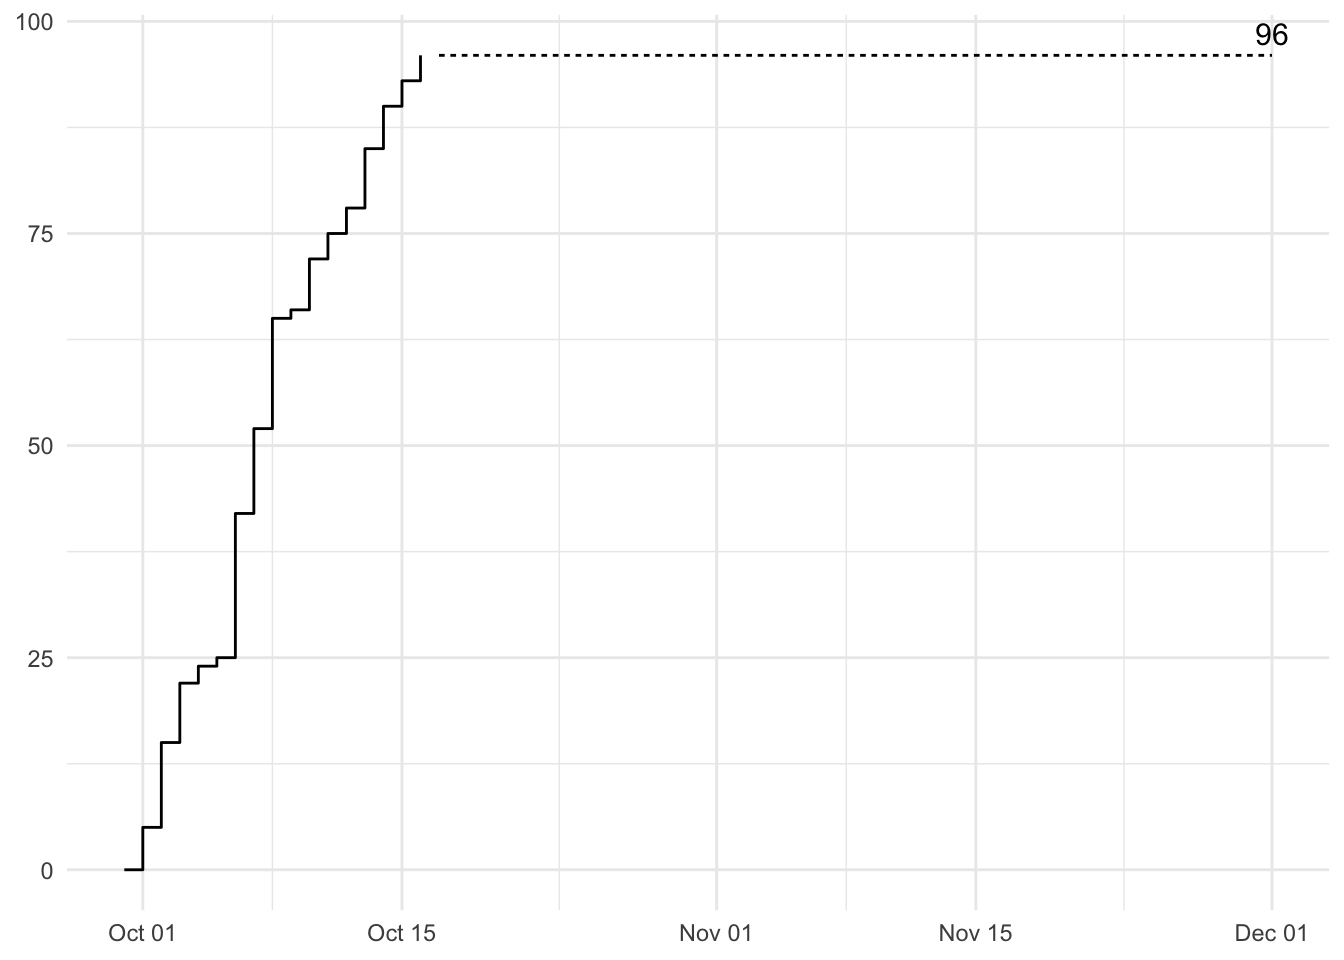
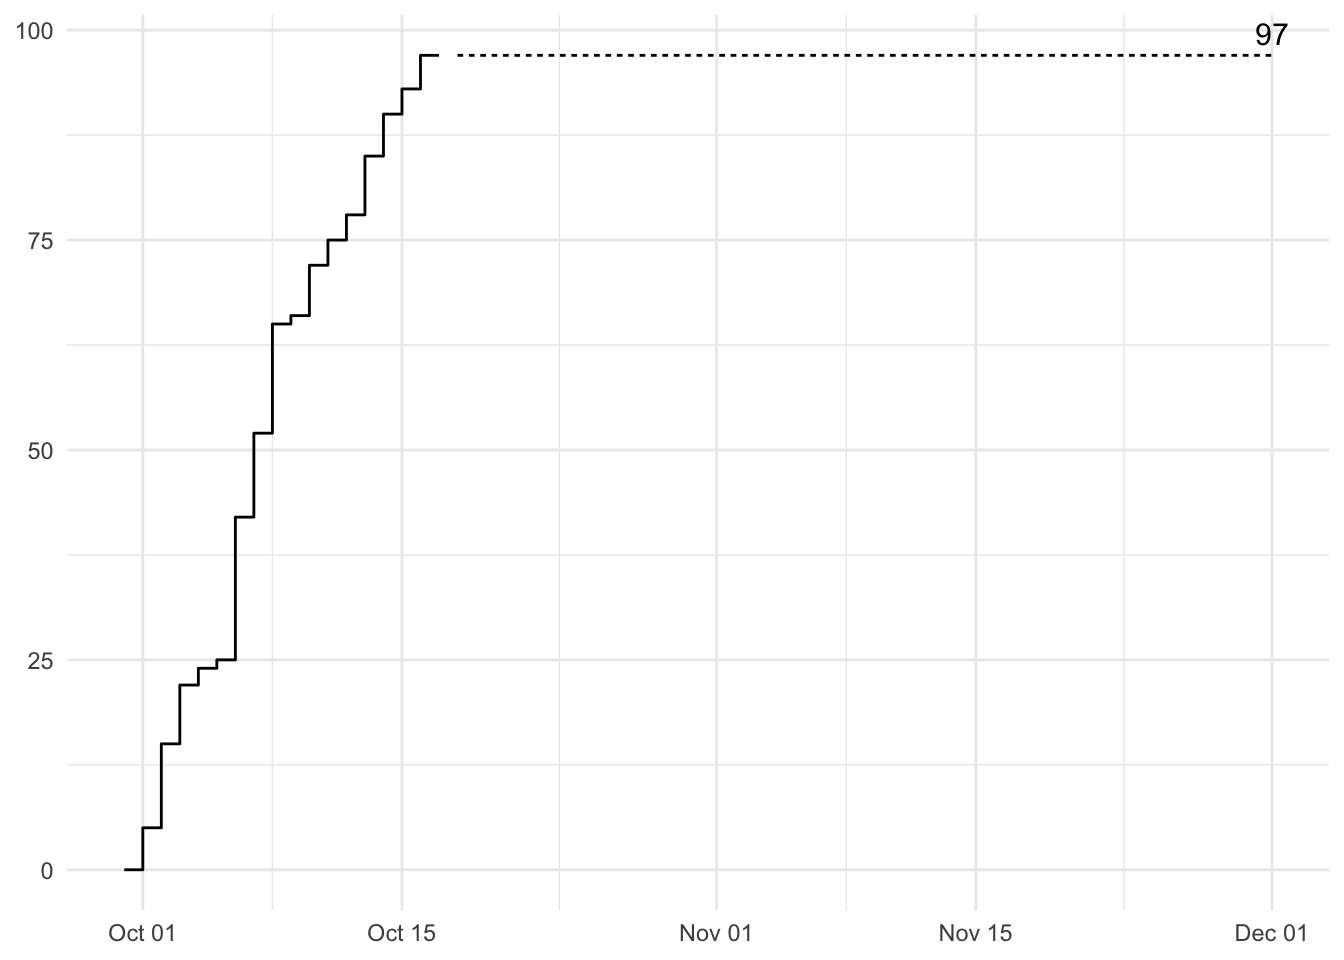
new team

diff --git a/_site/teams.html b/_site/teams.html
@@ -107,7 +107,7 @@ pre > code.sourceCode > span > a:first-child::before { text-decoration: underlin
 <script type="module" src="site_libs/quarto-ojs/quarto-ojs-runtime.js"></script>
 <link href="site_libs/quarto-ojs/quarto-ojs.css" rel="stylesheet">
 <script type="ojs-define">
-{"contents":[{"name":"teams_in_time","value":{"registration_date":["2025-09-30","2025-10-01","2025-10-02","2025-10-03","2025-10-04","2025-10-05","2025-10-06","2025-10-07","2025-10-08","2025-10-09","2025-10-10","2025-10-11","2025-10-12","2025-10-13","2025-10-14","2025-10-15","2025-10-16","2025-10-17","2025-10-18","2025-10-19","2025-10-20","2025-10-21","2025-10-22","2025-10-23","2025-10-24","2025-10-25","2025-10-26","2025-10-27","2025-10-28","2025-10-29","2025-10-30","2025-10-31","2025-11-01","2025-11-02","2025-11-03","2025-11-04","2025-11-05","2025-11-06","2025-11-07","2025-11-08","2025-11-09","2025-11-10","2025-11-11","2025-11-12","2025-11-13","2025-11-14","2025-11-15","2025-11-16","2025-11-17","2025-11-18","2025-11-19","2025-11-20","2025-11-21","2025-11-22","2025-11-23","2025-11-24","2025-11-25","2025-11-26","2025-11-27","2025-11-28","2025-11-29","2025-11-30","2025-12-01"],"n":[0,5,10,7,2,1,17,10,13,1,6,3,3,7,5,3,3,0,0,0,0,0,0,0,0,0,0,0,0,0,0,0,0,0,0,0,0,0,0,0,0,0,0,0,0,0,0,0,0,0,0,0,0,0,0,0,0,0,0,0,0,0,0],"future":[false,false,false,false,false,false,false,false,false,false,false,false,false,false,false,false,false,true,true,true,true,true,true,true,true,true,true,true,true,true,true,true,true,true,true,true,true,true,true,true,true,true,true,true,true,true,true,true,true,true,true,true,true,true,true,true,true,true,true,true,true,true,true]}}]}
+{"contents":[{"name":"teams_in_time","value":{"registration_date":["2025-09-30","2025-10-01","2025-10-02","2025-10-03","2025-10-04","2025-10-05","2025-10-06","2025-10-07","2025-10-08","2025-10-09","2025-10-10","2025-10-11","2025-10-12","2025-10-13","2025-10-14","2025-10-15","2025-10-16","2025-10-17","2025-10-18","2025-10-19","2025-10-20","2025-10-21","2025-10-22","2025-10-23","2025-10-24","2025-10-25","2025-10-26","2025-10-27","2025-10-28","2025-10-29","2025-10-30","2025-10-31","2025-11-01","2025-11-02","2025-11-03","2025-11-04","2025-11-05","2025-11-06","2025-11-07","2025-11-08","2025-11-09","2025-11-10","2025-11-11","2025-11-12","2025-11-13","2025-11-14","2025-11-15","2025-11-16","2025-11-17","2025-11-18","2025-11-19","2025-11-20","2025-11-21","2025-11-22","2025-11-23","2025-11-24","2025-11-25","2025-11-26","2025-11-27","2025-11-28","2025-11-29","2025-11-30","2025-12-01"],"n":[0,5,10,7,2,1,17,10,13,1,6,3,3,7,5,3,4,0,0,0,0,0,0,0,0,0,0,0,0,0,0,0,0,0,0,0,0,0,0,0,0,0,0,0,0,0,0,0,0,0,0,0,0,0,0,0,0,0,0,0,0,0,0],"future":[false,false,false,false,false,false,false,false,false,false,false,false,false,false,false,false,false,false,true,true,true,true,true,true,true,true,true,true,true,true,true,true,true,true,true,true,true,true,true,true,true,true,true,true,true,true,true,true,true,true,true,true,true,true,true,true,true,true,true,true,true,true,true]}}]}
 </script>
 
 
@@ -529,6 +529,7 @@ pre > code.sourceCode > span > a:first-child::before { text-decoration: underlin
   <li><a href="#strong-helicopter" id="toc-strong-helicopter" class="nav-link" data-scroll-target="#strong-helicopter">strong-helicopter</a></li>
   <li><a href="#terrific-kiwi" id="toc-terrific-kiwi" class="nav-link" data-scroll-target="#terrific-kiwi">terrific-kiwi</a></li>
   <li><a href="#tiny-marshmallow" id="toc-tiny-marshmallow" class="nav-link" data-scroll-target="#tiny-marshmallow">tiny-marshmallow</a></li>
+  <li><a href="#tiny-village" id="toc-tiny-village" class="nav-link" data-scroll-target="#tiny-village">tiny-village</a></li>
   <li><a href="#trustworthy-hedgehog" id="toc-trustworthy-hedgehog" class="nav-link" data-scroll-target="#trustworthy-hedgehog">trustworthy-hedgehog</a></li>
   <li><a href="#trustworthy-ukulele" id="toc-trustworthy-ukulele" class="nav-link" data-scroll-target="#trustworthy-ukulele">trustworthy-ukulele</a></li>
   <li><a href="#understated-zucchini" id="toc-understated-zucchini" class="nav-link" data-scroll-target="#understated-zucchini">understated-zucchini</a></li>
@@ -1980,14 +1981,30 @@ pre > code.sourceCode > span > a:first-child::before { text-decoration: underlin
 </ul>
 </section>
 </section>
-<section id="trustworthy-hedgehog" class="level2">
-<h2 class="anchored" data-anchor-id="trustworthy-hedgehog">trustworthy-hedgehog</h2>
+<section id="tiny-village" class="level2">
+<h2 class="anchored" data-anchor-id="tiny-village">tiny-village</h2>
 <section id="description-and-rationale-78" class="level3">
 <h3 class="anchored" data-anchor-id="description-and-rationale-78">Description and Rationale</h3>
-<p>We are a group of friends who love to do a bit of coding on the side. This challenge brought us a good opportunity to practice thinking about aerospace outside of work, and we will love to see if our unique prespective can solve this challenge posed!</p>
+<p>I want to enhence my research ability</p>
 </section>
 <section id="details-78" class="level3">
 <h3 class="anchored" data-anchor-id="details-78">Details</h3>
+<ul>
+<li>Number of team members: 1</li>
+<li>Type: Academia</li>
+<li>Affiliation: Beijing University of Posts and Telecommunications School of Economics and Management</li>
+<li>Country: China</li>
+</ul>
+</section>
+</section>
+<section id="trustworthy-hedgehog" class="level2">
+<h2 class="anchored" data-anchor-id="trustworthy-hedgehog">trustworthy-hedgehog</h2>
+<section id="description-and-rationale-79" class="level3">
+<h3 class="anchored" data-anchor-id="description-and-rationale-79">Description and Rationale</h3>
+<p>We are a group of friends who love to do a bit of coding on the side. This challenge brought us a good opportunity to practice thinking about aerospace outside of work, and we will love to see if our unique prespective can solve this challenge posed!</p>
+</section>
+<section id="details-79" class="level3">
+<h3 class="anchored" data-anchor-id="details-79">Details</h3>
 <ul>
 <li>Number of team members: 3</li>
 <li>Type: Industry</li>
@@ -1998,12 +2015,12 @@ pre > code.sourceCode > span > a:first-child::before { text-decoration: underlin
 </section>
 <section id="trustworthy-ukulele" class="level2">
 <h2 class="anchored" data-anchor-id="trustworthy-ukulele">trustworthy-ukulele</h2>
-<section id="description-and-rationale-79" class="level3">
-<h3 class="anchored" data-anchor-id="description-and-rationale-79">Description and Rationale</h3>
+<section id="description-and-rationale-80" class="level3">
+<h3 class="anchored" data-anchor-id="description-and-rationale-80">Description and Rationale</h3>
 <p>The team consists of me and my friend Suhail. We both have aeronautical engineering background where Suhail deals with aviation BI and I deal with algorithms and trajectories.</p>
 </section>
-<section id="details-79" class="level3">
-<h3 class="anchored" data-anchor-id="details-79">Details</h3>
+<section id="details-80" class="level3">
+<h3 class="anchored" data-anchor-id="details-80">Details</h3>
 <ul>
 <li>Number of team members: 2</li>
 <li>Type: Independent</li>
@@ -2014,12 +2031,12 @@ pre > code.sourceCode > span > a:first-child::before { text-decoration: underlin
 </section>
 <section id="understated-zucchini" class="level2">
 <h2 class="anchored" data-anchor-id="understated-zucchini">understated-zucchini</h2>
-<section id="description-and-rationale-80" class="level3">
-<h3 class="anchored" data-anchor-id="description-and-rationale-80">Description and Rationale</h3>
+<section id="description-and-rationale-81" class="level3">
+<h3 class="anchored" data-anchor-id="description-and-rationale-81">Description and Rationale</h3>
 <p>Improve Machine Learning skills and use trajectory predictions if applicable</p>
 </section>
-<section id="details-80" class="level3">
-<h3 class="anchored" data-anchor-id="details-80">Details</h3>
+<section id="details-81" class="level3">
+<h3 class="anchored" data-anchor-id="details-81">Details</h3>
 <ul>
 <li>Number of team members: 1</li>
 <li>Type: Independent</li>
@@ -2030,12 +2047,12 @@ pre > code.sourceCode > span > a:first-child::before { text-decoration: underlin
 </section>
 <section id="unique-dinosaur" class="level2">
 <h2 class="anchored" data-anchor-id="unique-dinosaur">unique-dinosaur</h2>
-<section id="description-and-rationale-81" class="level3">
-<h3 class="anchored" data-anchor-id="description-and-rationale-81">Description and Rationale</h3>
+<section id="description-and-rationale-82" class="level3">
+<h3 class="anchored" data-anchor-id="description-and-rationale-82">Description and Rationale</h3>
 <p>I am so overwhelmed with solving aviation challenges by applying ML tools and enable the communities thrive on most efficient form of transportation.</p>
 </section>
-<section id="details-81" class="level3">
-<h3 class="anchored" data-anchor-id="details-81">Details</h3>
+<section id="details-82" class="level3">
+<h3 class="anchored" data-anchor-id="details-82">Details</h3>
 <ul>
 <li>Number of team members: 1</li>
 <li>Type: Industry</li>
@@ -2046,12 +2063,12 @@ pre > code.sourceCode > span > a:first-child::before { text-decoration: underlin
 </section>
 <section id="unique-guitar" class="level2">
 <h2 class="anchored" data-anchor-id="unique-guitar">unique-guitar</h2>
-<section id="description-and-rationale-82" class="level3">
-<h3 class="anchored" data-anchor-id="description-and-rationale-82">Description and Rationale</h3>
+<section id="description-and-rationale-83" class="level3">
+<h3 class="anchored" data-anchor-id="description-and-rationale-83">Description and Rationale</h3>
 <p>interested in exploring machine learning and air traffic management</p>
 </section>
-<section id="details-82" class="level3">
-<h3 class="anchored" data-anchor-id="details-82">Details</h3>
+<section id="details-83" class="level3">
+<h3 class="anchored" data-anchor-id="details-83">Details</h3>
 <ul>
 <li>Number of team members: 1</li>
 <li>Type: Academia</li>
@@ -2062,12 +2079,12 @@ pre > code.sourceCode > span > a:first-child::before { text-decoration: underlin
 </section>
 <section id="unique-honey" class="level2">
 <h2 class="anchored" data-anchor-id="unique-honey">unique-honey</h2>
-<section id="description-and-rationale-83" class="level3">
-<h3 class="anchored" data-anchor-id="description-and-rationale-83">Description and Rationale</h3>
+<section id="description-and-rationale-84" class="level3">
+<h3 class="anchored" data-anchor-id="description-and-rationale-84">Description and Rationale</h3>
 <p>We are working as researchers at a University and are actively working on AI regarding aviation systems. One of our projects is about sustainable AI in aviation and this challenge seems like a good fit. It will be a good opportunity to challenge ourselves and learn more.</p>
 </section>
-<section id="details-83" class="level3">
-<h3 class="anchored" data-anchor-id="details-83">Details</h3>
+<section id="details-84" class="level3">
+<h3 class="anchored" data-anchor-id="details-84">Details</h3>
 <ul>
 <li>Number of team members: 2</li>
 <li>Type: Academia</li>
@@ -2078,12 +2095,12 @@ pre > code.sourceCode > span > a:first-child::before { text-decoration: underlin
 </section>
 <section id="unique-quicksand" class="level2">
 <h2 class="anchored" data-anchor-id="unique-quicksand">unique-quicksand</h2>
-<section id="description-and-rationale-84" class="level3">
-<h3 class="anchored" data-anchor-id="description-and-rationale-84">Description and Rationale</h3>
+<section id="description-and-rationale-85" class="level3">
+<h3 class="anchored" data-anchor-id="description-and-rationale-85">Description and Rationale</h3>
 <p>A team of Flight Physic data analytics enthusiasts linked to a major aircraft manufacturer. We are seeking the challenge while wanting to learn on the problem presented.</p>
 </section>
-<section id="details-84" class="level3">
-<h3 class="anchored" data-anchor-id="details-84">Details</h3>
+<section id="details-85" class="level3">
+<h3 class="anchored" data-anchor-id="details-85">Details</h3>
 <ul>
 <li>Number of team members: 1</li>
 <li>Type: Industry</li>
@@ -2094,12 +2111,12 @@ pre > code.sourceCode > span > a:first-child::before { text-decoration: underlin
 </section>
 <section id="unique-zeppelin" class="level2">
 <h2 class="anchored" data-anchor-id="unique-zeppelin">unique-zeppelin</h2>
-<section id="description-and-rationale-85" class="level3">
-<h3 class="anchored" data-anchor-id="description-and-rationale-85">Description and Rationale</h3>
+<section id="description-and-rationale-86" class="level3">
+<h3 class="anchored" data-anchor-id="description-and-rationale-86">Description and Rationale</h3>
 <p>I’m a beginner in data science. I participated in this data challenge just for my skill up.</p>
 </section>
-<section id="details-85" class="level3">
-<h3 class="anchored" data-anchor-id="details-85">Details</h3>
+<section id="details-86" class="level3">
+<h3 class="anchored" data-anchor-id="details-86">Details</h3>
 <ul>
 <li>Number of team members: 1</li>
 <li>Type: Industry</li>
@@ -2110,12 +2127,12 @@ pre > code.sourceCode > span > a:first-child::before { text-decoration: underlin
 </section>
 <section id="vibrant-cabbage" class="level2">
 <h2 class="anchored" data-anchor-id="vibrant-cabbage">vibrant-cabbage</h2>
-<section id="description-and-rationale-86" class="level3">
-<h3 class="anchored" data-anchor-id="description-and-rationale-86">Description and Rationale</h3>
+<section id="description-and-rationale-87" class="level3">
+<h3 class="anchored" data-anchor-id="description-and-rationale-87">Description and Rationale</h3>
 <p>We are a group of undergraduate students majoring in Data Science from Embry-Riddle Aeronautical University, Prescott, AZ. We both share passion for aviation and performance analysis. We have the desire to push the boundaries of safety, efficiency, and innovation. Emanuele Bossi’s research interests lie in complex network science and inference, specifically in the development of sparse regression models and optimization-based methods to understand and influence interactions within high-dimensional networks. Afonso Azevedo’s research interests focus on data-driven optimization, time-series modeling, and predictive analytics applied to environmental systems and datasets.</p>
 </section>
-<section id="details-86" class="level3">
-<h3 class="anchored" data-anchor-id="details-86">Details</h3>
+<section id="details-87" class="level3">
+<h3 class="anchored" data-anchor-id="details-87">Details</h3>
 <ul>
 <li>Number of team members: 2</li>
 <li>Type: Academia</li>
@@ -2126,12 +2143,12 @@ pre > code.sourceCode > span > a:first-child::before { text-decoration: underlin
 </section>
 <section id="vibrant-pencil" class="level2">
 <h2 class="anchored" data-anchor-id="vibrant-pencil">vibrant-pencil</h2>
-<section id="description-and-rationale-87" class="level3">
-<h3 class="anchored" data-anchor-id="description-and-rationale-87">Description and Rationale</h3>
+<section id="description-and-rationale-88" class="level3">
+<h3 class="anchored" data-anchor-id="description-and-rationale-88">Description and Rationale</h3>
 <p>Hi I happy to join this contest Tankyou :)</p>
 </section>
-<section id="details-87" class="level3">
-<h3 class="anchored" data-anchor-id="details-87">Details</h3>
+<section id="details-88" class="level3">
+<h3 class="anchored" data-anchor-id="details-88">Details</h3>
 <ul>
 <li>Number of team members: 1</li>
 <li>Type: Independent</li>
@@ -2142,12 +2159,12 @@ pre > code.sourceCode > span > a:first-child::before { text-decoration: underlin
 </section>
 <section id="vibrant-umbrella" class="level2">
 <h2 class="anchored" data-anchor-id="vibrant-umbrella">vibrant-umbrella</h2>
-<section id="description-and-rationale-88" class="level3">
-<h3 class="anchored" data-anchor-id="description-and-rationale-88">Description and Rationale</h3>
+<section id="description-and-rationale-89" class="level3">
+<h3 class="anchored" data-anchor-id="description-and-rationale-89">Description and Rationale</h3>
 <p>Aviation Fan</p>
 </section>
-<section id="details-88" class="level3">
-<h3 class="anchored" data-anchor-id="details-88">Details</h3>
+<section id="details-89" class="level3">
+<h3 class="anchored" data-anchor-id="details-89">Details</h3>
 <ul>
 <li>Number of team members: 1</li>
 <li>Type: Independent</li>
@@ -2158,12 +2175,12 @@ pre > code.sourceCode > span > a:first-child::before { text-decoration: underlin
 </section>
 <section id="vivacious-emu" class="level2">
 <h2 class="anchored" data-anchor-id="vivacious-emu">vivacious-emu</h2>
-<section id="description-and-rationale-89" class="level3">
-<h3 class="anchored" data-anchor-id="description-and-rationale-89">Description and Rationale</h3>
+<section id="description-and-rationale-90" class="level3">
+<h3 class="anchored" data-anchor-id="description-and-rationale-90">Description and Rationale</h3>
 <p>I’m an engineer with Boeing and like working with data.</p>
 </section>
-<section id="details-89" class="level3">
-<h3 class="anchored" data-anchor-id="details-89">Details</h3>
+<section id="details-90" class="level3">
+<h3 class="anchored" data-anchor-id="details-90">Details</h3>
 <ul>
 <li>Number of team members: 1</li>
 <li>Type: Independent</li>
@@ -2174,12 +2191,12 @@ pre > code.sourceCode > span > a:first-child::before { text-decoration: underlin
 </section>
 <section id="witty-vase" class="level2">
 <h2 class="anchored" data-anchor-id="witty-vase">witty-vase</h2>
-<section id="description-and-rationale-90" class="level3">
-<h3 class="anchored" data-anchor-id="description-and-rationale-90">Description and Rationale</h3>
+<section id="description-and-rationale-91" class="level3">
+<h3 class="anchored" data-anchor-id="description-and-rationale-91">Description and Rationale</h3>
 <p>I’m an open-sky enthusiast.</p>
 </section>
-<section id="details-90" class="level3">
-<h3 class="anchored" data-anchor-id="details-90">Details</h3>
+<section id="details-91" class="level3">
+<h3 class="anchored" data-anchor-id="details-91">Details</h3>
 <ul>
 <li>Number of team members: 1</li>
 <li>Type: Independent</li>
@@ -2190,12 +2207,12 @@ pre > code.sourceCode > span > a:first-child::before { text-decoration: underlin
 </section>
 <section id="zany-waterfall" class="level2">
 <h2 class="anchored" data-anchor-id="zany-waterfall">zany-waterfall</h2>
-<section id="description-and-rationale-91" class="level3">
-<h3 class="anchored" data-anchor-id="description-and-rationale-91">Description and Rationale</h3>
+<section id="description-and-rationale-92" class="level3">
+<h3 class="anchored" data-anchor-id="description-and-rationale-92">Description and Rationale</h3>
 <p>I’m a data scientist who loves Kaggle and data competitions. I enjoy solving real-world problems with data and learning from the community. I also have a passion for aviation, it started when I joined a Kaggle competition about contrail detection. I’m excited to keep learning, improving my models, and taking on new challenges!</p>
 </section>
-<section id="details-91" class="level3">
-<h3 class="anchored" data-anchor-id="details-91">Details</h3>
+<section id="details-92" class="level3">
+<h3 class="anchored" data-anchor-id="details-92">Details</h3>
 <ul>
 <li>Number of team members: 1</li>
 <li>Type: Independent</li>
@@ -2206,12 +2223,12 @@ pre > code.sourceCode > span > a:first-child::before { text-decoration: underlin
 </section>
 <section id="zealous-dragon" class="level2">
 <h2 class="anchored" data-anchor-id="zealous-dragon">zealous-dragon</h2>
-<section id="description-and-rationale-92" class="level3">
-<h3 class="anchored" data-anchor-id="description-and-rationale-92">Description and Rationale</h3>
+<section id="description-and-rationale-93" class="level3">
+<h3 class="anchored" data-anchor-id="description-and-rationale-93">Description and Rationale</h3>
 <p>Really motivated by the challenge!</p>
 </section>
-<section id="details-92" class="level3">
-<h3 class="anchored" data-anchor-id="details-92">Details</h3>
+<section id="details-93" class="level3">
+<h3 class="anchored" data-anchor-id="details-93">Details</h3>
 <ul>
 <li>Number of team members: 1</li>
 <li>Type: Independent</li>
@@ -2222,12 +2239,12 @@ pre > code.sourceCode > span > a:first-child::before { text-decoration: underlin
 </section>
 <section id="zestful-mango" class="level2">
 <h2 class="anchored" data-anchor-id="zestful-mango">zestful-mango</h2>
-<section id="description-and-rationale-93" class="level3">
-<h3 class="anchored" data-anchor-id="description-and-rationale-93">Description and Rationale</h3>
+<section id="description-and-rationale-94" class="level3">
+<h3 class="anchored" data-anchor-id="description-and-rationale-94">Description and Rationale</h3>
 <p>We are a duo of data scientists motivated by the challenge of applying our analytical techniques to real-world problems in the aeronautics industry.</p>
 </section>
-<section id="details-93" class="level3">
-<h3 class="anchored" data-anchor-id="details-93">Details</h3>
+<section id="details-94" class="level3">
+<h3 class="anchored" data-anchor-id="details-94">Details</h3>
 <ul>
 <li>Number of team members: 2</li>
 <li>Type: Industry</li>
@@ -2238,12 +2255,12 @@ pre > code.sourceCode > span > a:first-child::before { text-decoration: underlin
 </section>
 <section id="zestful-mushroom" class="level2">
 <h2 class="anchored" data-anchor-id="zestful-mushroom">zestful-mushroom</h2>
-<section id="description-and-rationale-94" class="level3">
-<h3 class="anchored" data-anchor-id="description-and-rationale-94">Description and Rationale</h3>
+<section id="description-and-rationale-95" class="level3">
+<h3 class="anchored" data-anchor-id="description-and-rationale-95">Description and Rationale</h3>
 <p>TBC</p>
 </section>
-<section id="details-94" class="level3">
-<h3 class="anchored" data-anchor-id="details-94">Details</h3>
+<section id="details-95" class="level3">
+<h3 class="anchored" data-anchor-id="details-95">Details</h3>
 <ul>
 <li>Number of team members: 1</li>
 <li>Type: Independent</li>
@@ -2254,12 +2271,12 @@ pre > code.sourceCode > span > a:first-child::before { text-decoration: underlin
 </section>
 <section id="zestful-volcano" class="level2">
 <h2 class="anchored" data-anchor-id="zestful-volcano">zestful-volcano</h2>
-<section id="description-and-rationale-95" class="level3">
-<h3 class="anchored" data-anchor-id="description-and-rationale-95">Description and Rationale</h3>
+<section id="description-and-rationale-96" class="level3">
+<h3 class="anchored" data-anchor-id="description-and-rationale-96">Description and Rationale</h3>
 <p>Just for fun, putting some theoretical knowledge into actual use</p>
 </section>
-<section id="details-95" class="level3">
-<h3 class="anchored" data-anchor-id="details-95">Details</h3>
+<section id="details-96" class="level3">
+<h3 class="anchored" data-anchor-id="details-96">Details</h3>
 <ul>
 <li>Number of team members: 1</li>
 <li>Type: Independent</li>
@@ -2270,13 +2287,13 @@ pre > code.sourceCode > span > a:first-child::before { text-decoration: underlin
 </section>
 <section id="zesty-hedgehog" class="level2">
 <h2 class="anchored" data-anchor-id="zesty-hedgehog">zesty-hedgehog</h2>
-<section id="description-and-rationale-96" class="level3">
-<h3 class="anchored" data-anchor-id="description-and-rationale-96">Description and Rationale</h3>
+<section id="description-and-rationale-97" class="level3">
+<h3 class="anchored" data-anchor-id="description-and-rationale-97">Description and Rationale</h3>
 <p>I am a student researcher at DLR Braunschweig with a Machine Learning (ML) background. I currently work on our Digital Controller for Air Traffic Control.</p>
 <p>The PRC Data Challenge 2025 is a great opportunity for me to try out ML methods on new aviation datasets. Especially the comparison with other teams performances makes it very interesting.</p>
 </section>
-<section id="details-96" class="level3">
-<h3 class="anchored" data-anchor-id="details-96">Details</h3>
+<section id="details-97" class="level3">
+<h3 class="anchored" data-anchor-id="details-97">Details</h3>
 <ul>
 <li>Number of team members: 1</li>
 <li>Type: Academia</li>

diff --git a/_site/ranking.html b/_site/ranking.html
@@ -448,7 +448,7 @@ Attention
 (if not already done, you need to access <a href="https://discord.gg/RPh89jpVVz">OSN Discord server</a> first)</p>
 </div>
 </div>
-<iframe width="100%" height="350" frameborder="0" src="https://observablehq.com/embed/@espinielli/dc25-leaderboard@376?cells=leaderboard"></iframe>
+<iframe width="100%" height="350" frameborder="0" src="https://observablehq.com/embed/@espinielli/dc25-leaderboard@380?cells=leaderboard"></iframe>
 <p>All submissions rankings can be had at the <a href="https://datacomp.opensky-network.org/api/competitions/71c49292-6139-425f-803a-52ee8730ba58/leaderboard?limit=100">full leaderboard JSON</a>.</p>
 </section>
 <section id="criteria-for-ranking-submissions" class="level2">
